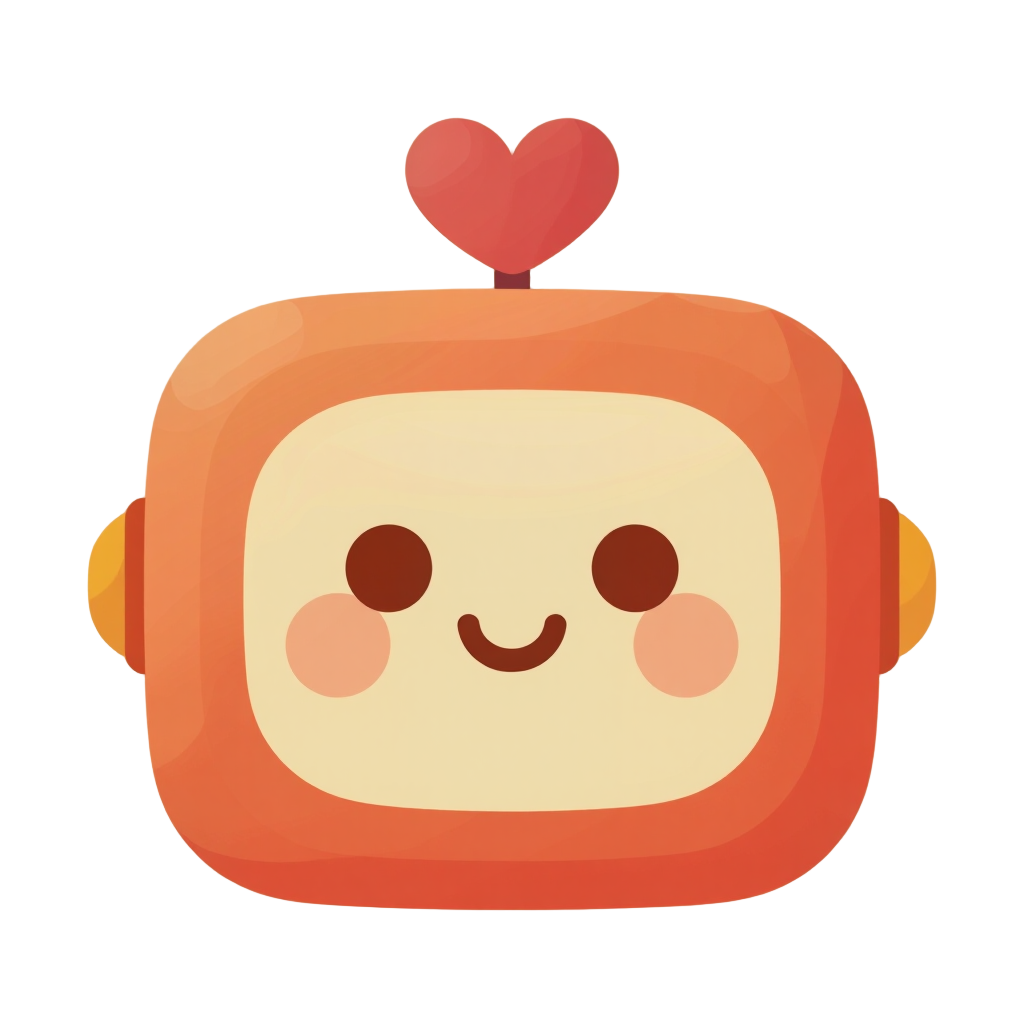
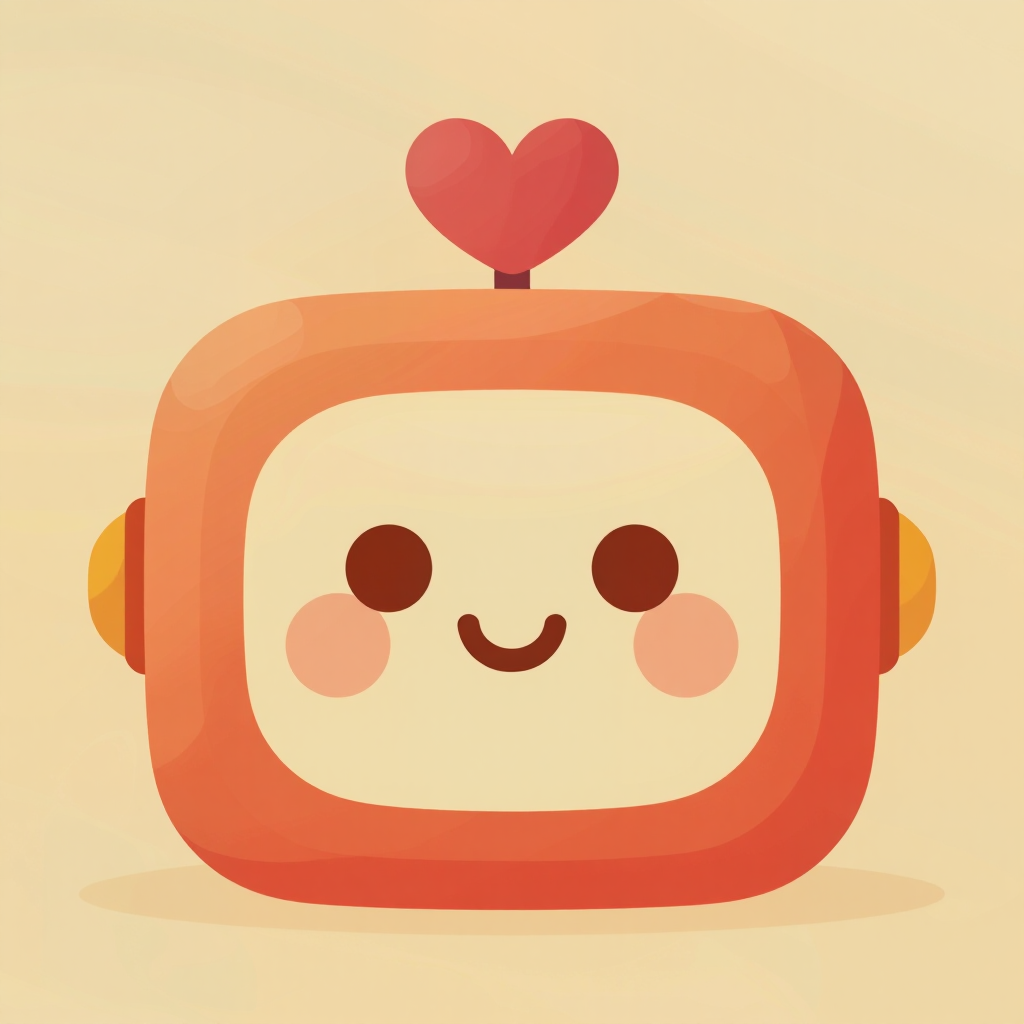
Fix robot-coral: move cut-out to stickers, add opaque tile, gate checks for transparent tiles
The transparent cut-out PNG was served as a tile but `field()` reads only
edge pixels, so it returned None and the library dropped the picture.

- Move the cut-out PNG to `library/stickers/robot-coral.png` and add a
  `stickers/robot-coral` catalogue entry.
- Add a new opaque tile at `library/tiles/robot-coral.png` (same prompt and
  seed) so the apple-touch-icon and PWA manifest icon stay opaque.
- Add `has_png(kind)` helper; use it in `prepare()`, `all_cached()`, and
  `file()` so both tiles and stickers get PNG variants.
- Gate check: refuse a tile whose edge pixels are all transparent, with a
  message pointing to `stickers/`.
- Favicon and logo now point at `stickers/robot-coral-128.png` and
  `stickers/robot-coral-256.png`; `apple-touch-icon` stays on
  `tiles/robot-coral-256.png`.
- Update `docs/library.md` to document PNG serving for stickers and the
  gate rule.

diff --git a/web/index.html b/web/index.html
@@ -8,7 +8,7 @@
   <link rel="stylesheet" href="/_/site/landing.css">
   <link rel="manifest" href="/_/manifest.webmanifest">
   <link rel="apple-touch-icon" href="/_library/tiles/robot-coral-256.png">
-  <link rel="icon" type="image/png" href="/_library/tiles/robot-coral-128.png">
+  <link rel="icon" type="image/png" href="/_library/stickers/robot-coral-128.png">
   <meta name="theme-color" content="#d4573d">
   <meta name="apple-mobile-web-app-capable" content="yes">
   <script type="module" src="/_/site/landing.js"></script>
@@ -16,7 +16,7 @@
 <body>
   <div class="bar" id="bar"></div>
   <main>
-    <img class="logo" src="/_library/tiles/robot-coral-256.png" alt="">
+    <img class="logo" src="/_library/stickers/robot-coral-256.png" alt="">
     <h1>Yen Bot</h1>
     <p>Made by Zen</p>
     <div class="card" id="who">…</div>

diff --git a/src/check/files.rs b/src/check/files.rs
@@ -43,6 +43,8 @@ pub struct Files {
     pub text: BTreeMap<String, String>,
     /// Text files that are not UTF-8.
     pub unreadable: BTreeSet<String>,
+    /// PNG bytes under `library/`, by path, for the gate's colour check.
+    pub pngs: BTreeMap<String, Vec<u8>>,
 }
 
 impl Files {
@@ -58,6 +60,8 @@ impl Files {
                     self.unreadable.insert(path.to_string());
                 }
             }
+        } else if path.ends_with(".png") && path.starts_with("library/") {
+            self.pngs.insert(path.to_string(), bytes);
         }
     }
 
@@ -106,6 +110,7 @@ pub fn from_disk(root: &Path, id: &str) -> Result<Files> {
     let mut files = Files::default();
     walk(root, &root.join("apps").join(id), &mut files, true)?;
     walk(root, &root.join("library"), &mut files, false)?;
+    walk_pngs(root, &root.join("library"), &mut files)?;
     for path in [GUIDE, CATALOGUE] {
         let file = root.join(path);
         if file.is_file() {
@@ -134,6 +139,29 @@ fn walk(root: &Path, dir: &Path, files: &mut Files, read: bool) -> Result<()> {
             files.add(&rel, std::fs::read(&path)?);
         } else {
             files.name(&rel);
+        }
+    }
+    Ok(())
+}
+
+/// Collect PNG files under `dir` into `files.pngs`.
+fn walk_pngs(root: &Path, dir: &Path, files: &mut Files) -> Result<()> {
+    let Ok(entries) = std::fs::read_dir(dir) else {
+        return Ok(());
+    };
+    for entry in entries {
+        let entry = entry?;
+        let path = entry.path();
+        if entry.file_type()?.is_dir() {
+            walk_pngs(root, &path, files)?;
+            continue;
+        }
+        if path.extension().map_or(false, |e| e == "png") {
+            let rel = path
+                .strip_prefix(root)?
+                .to_string_lossy()
+                .replace('\\', "/");
+            files.pngs.insert(rel, std::fs::read(&path)?);
         }
     }
     Ok(())
@@ -168,7 +196,8 @@ fn read_commit(repo: &Path, commit: &str, app: Option<&str>) -> Result<Files> {
         if kind != Some("blob") {
             continue;
         }
-        if app.is_some_and(|a| path.starts_with(a)) || read_whole(path) {
+        let is_lib_png = path.starts_with("library/") && path.ends_with(".png");
+        if app.is_some_and(|a| path.starts_with(a)) || read_whole(path) || is_lib_png {
             wanted.push((
                 path.to_string(),
                 object.context("an object id")?.to_string(),
@@ -279,6 +308,7 @@ mod tests {
     fn library() -> Files {
         let mut f = Files::default();
         f.name("library/tiles/bell.png");
+        f.pngs.insert("library/tiles/bell.png".to_string(), vec![0x89, b'P']);
         f.add(CATALOGUE, b"# the pictures\n".to_vec());
         f.add(GUIDE, b"# Building an app\n\nEdition: 3\n".to_vec());
         f

diff --git a/src/library/check.rs b/src/library/check.rs
@@ -8,7 +8,9 @@ use crate::check::files::Files;
 use crate::check::Refusal;
 
 use super::catalogue::{self, is_word, PATH};
+use super::dominant::field;
 use super::kind::Kind;
+use super::sizing::decode;
 
 pub const RULE: &str = "library";
 
@@ -68,6 +70,25 @@ pub fn check(files: &Files) -> Vec<Refusal> {
             None => "is not a picture of the library: it holds `<kind>/<id>.png` and catalogue.yaml alone".to_string(),
         };
         out.push(Refusal::new(RULE, path, None, message));
+    }
+    // A tile must have an opaque field at its edge; a cut-out on transparency
+    // belongs in stickers/.
+    for e in &entries {
+        if e.kind != Kind::Tiles {
+            continue;
+        }
+        if let Some(bytes) = files.pngs.get(&e.path()) {
+            if let Ok(img) = decode(bytes) {
+                if field(&img).is_none() {
+                    out.push(Refusal::new(
+                        RULE,
+                        e.path(),
+                        Some(e.line),
+                        "a tile needs an opaque field at its edge; a cut-out on transparency belongs in stickers/".to_string(),
+                    ));
+                }
+            }
+        }
     }
     out.sort();
     out
@@ -151,5 +172,32 @@ mod tests {
             r[0].message
         );
         assert!(keys(&f).is_empty());
+    }
+    /// A tile whose PNG is fully transparent is refused at the gate.
+    #[test]
+    fn a_tile_with_transparent_edges_is_refused() {
+        use image::{Rgba, RgbaImage};
+        let mut img = RgbaImage::new(32, 32);
+        // All pixels transparent — no opaque field.
+        for y in 0..32 {
+            for x in 0..32 {
+                img.put_pixel(x, y, Rgba([0, 0, 0, 0]));
+            }
+        }
+        let mut png_bytes = Vec::new();
+        img.write_to(&mut std::io::Cursor::new(&mut png_bytes), image::ImageFormat::Png)
+            .unwrap();
+        let mut f = Files::default();
+        f.add(
+            PATH,
+            b"tiles/ghost:\n  tags: [ghost]\n  seed: 1\n  prompt: p\n".to_vec(),
+        );
+        f.pngs.insert("library/tiles/ghost.png".to_string(), png_bytes);
+        f.names.insert("library/tiles/ghost.png".to_string());
+        let r = check(&f);
+        assert!(
+            r.iter().any(|r| r.message.contains("a tile needs an opaque field")),
+            "{r:?}"
+        );
     }
 }

diff --git a/src/library/mod.rs b/src/library/mod.rs
@@ -130,15 +130,21 @@ fn size_file(dir: &Path, w: u32, h: u32) -> PathBuf {
     dir.join(format!("{w}x{h}.webp"))
 }
 
-/// The cached PNG of a tile at size `w`×`h`: the home screen's icon.
+/// The cached PNG of a picture at size `w`×`h`: the home screen's icon
+/// for tiles, and the transparent cut-out for stickers.
 fn png_file(dir: &Path, w: u32, h: u32) -> PathBuf {
     dir.join(format!("{w}x{h}.png"))
+}
+
+/// Whether a kind of picture gets a PNG alongside its WebP.
+fn has_png(kind: Kind) -> bool {
+    matches!(kind, Kind::Tiles | Kind::Stickers)
 }
 
 /// Whether every file `kind`'s pictures are cached as is in `dir`.
 fn all_cached(dir: &Path, kind: Kind) -> bool {
     kind.sizes().iter().all(|&(w, h)| {
-        size_file(dir, w, h).is_file() && (kind != Kind::Tiles || png_file(dir, w, h).is_file())
+        size_file(dir, w, h).is_file() && (!has_png(kind) || png_file(dir, w, h).is_file())
     })
 }
 
@@ -227,7 +233,7 @@ impl Library {
                 for &(w, h) in sizes {
                     let at = sized(&img, w, h);
                     write_whole(&size_file(&dir, w, h), &webp(&at)?)?;
-                    if entry.kind == Kind::Tiles {
+                    if has_png(entry.kind) {
                         write_whole(&png_file(&dir, w, h), &to_png(&at)?)?;
                     }
                 }
@@ -292,7 +298,7 @@ impl Library {
     }
 
     /// The sized file a request names — `<kind>/<id>-<width>.webp`, or a
-    /// tile's `.png` — when the picture and the size are there.
+    /// tile's or sticker's `.png` — when the picture and the size are there.
     pub fn file(&self, kind: &str, file: &str) -> Option<PathBuf> {
         let (stem, as_png) = match file.strip_suffix(".webp") {
             Some(stem) => (stem, false),
@@ -301,7 +307,7 @@ impl Library {
         let (id, width) = stem.rsplit_once('-')?;
         let width: u32 = width.parse().ok()?;
         let p = self.get(&format!("{kind}/{id}"))?;
-        if as_png && p.entry.kind != Kind::Tiles {
+        if as_png && !has_png(p.entry.kind) {
             return None;
         }
         let &(w, h) = p.entry.kind.sizes().iter().find(|s| s.0 == width)?;

diff --git a/src/serve/install.rs b/src/serve/install.rs
@@ -29,7 +29,7 @@ const THEME: &str = "#d4573d";
 pub const HEAD: &[&str] = &[
     "<link rel=\"manifest\" href=\"/_/manifest.webmanifest\">",
     "<link rel=\"apple-touch-icon\" href=\"/_library/tiles/robot-coral-256.png\">",
-    "<link rel=\"icon\" type=\"image/png\" href=\"/_library/tiles/robot-coral-128.png\">",
+    "<link rel=\"icon\" type=\"image/png\" href=\"/_library/stickers/robot-coral-128.png\">",
     "<meta name=\"theme-color\" content=\"#d4573d\">",
     "<meta name=\"apple-mobile-web-app-capable\" content=\"yes\">",
 ];

diff --git a/src/library/tests.rs b/src/library/tests.rs
@@ -76,11 +76,9 @@ fn the_library_sizes_every_picture() {
     let star = lib.get("stickers/star").unwrap();
     assert_eq!(star.palette, "sky");
     assert!(lib.file("stickers", "star-128.webp").unwrap().is_file());
-    assert_eq!(
-        lib.file("stickers", "star-128.png"),
-        None,
-        "a sticker is not"
-    );
+    // A sticker gets a PNG too, for the favicon.
+    assert!(lib.file("stickers", "star-128.png").unwrap().is_file());
+    assert_eq!(lib.file("stickers", "star-300.png"), None);
 }
 
 #[test]

diff --git a/docs/library.md b/docs/library.md
@@ -31,8 +31,11 @@ has it too.
 
 The image model draws at most 1024 a side, so a picture is committed as it
 was drawn and the site sizes it down (WebP at quality 82, transparency kept
-exactly); a
-picture of another shape is cut to its kind's shape from the centre.
+exactly); a picture of another shape is cut to its kind's shape from the centre.
+
+Tiles and stickers are also served as PNG at each size (for the home-screen
+icon and the favicon). The gate refuses a tile whose edge pixels are all
+transparent — a cut-out on transparency belongs in `stickers/`, not `tiles/`.
 
 ## The house style
 
